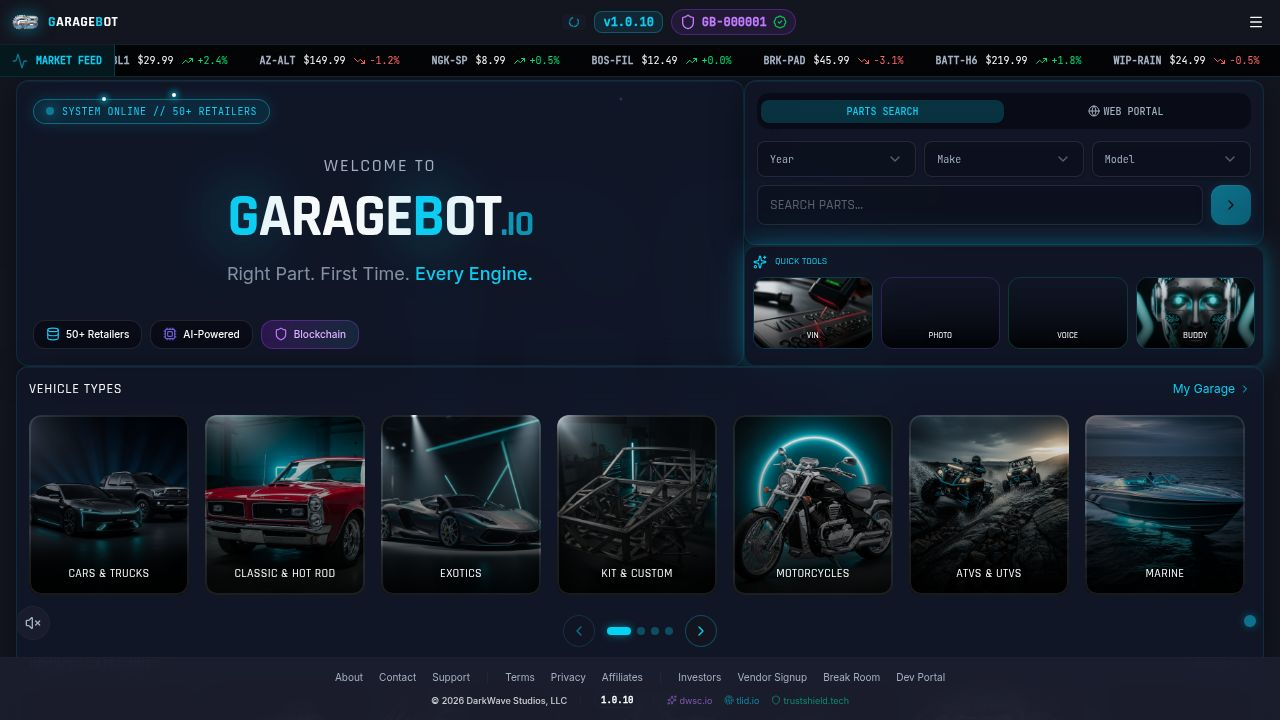
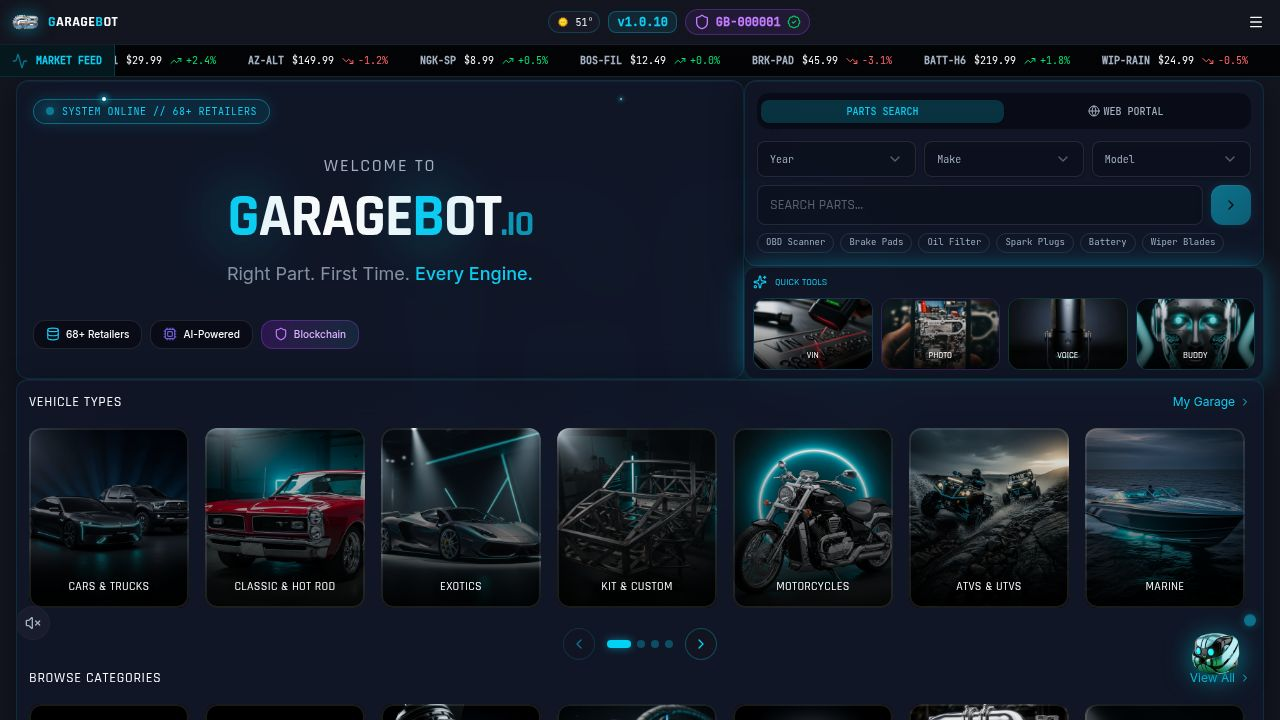
Add order confirmation, newsletter, and subscription emails
Adds new email sending functionality for order confirmations, newsletter subscriptions, and Pro subscriptions. Updates the number of supported retailers across the platform and introduces haptic feedback for user interactions.

Replit-Commit-Author: Agent
Replit-Commit-Session-Id: 1e54a76f-124b-4283-becb-c4350839668b
Replit-Commit-Checkpoint-Type: full_checkpoint
Replit-Commit-Event-Id: 29b42831-a27a-4e7e-9ab5-338efb24f10e
Replit-Commit-Screenshot-Url: https://storage.googleapis.com/screenshot-production-us-central1/61f82902-728d-4d48-9085-7700c909b4d3/1e54a76f-124b-4283-becb-c4350839668b/WXyVTWz

diff --git a/server/services/emailService.ts b/server/services/emailService.ts
@@ -103,7 +103,7 @@ export async function sendWelcomeEmail(toEmail: string, username: string) {
     <div style="background: rgba(255,255,255,0.03); border-radius: 8px; padding: 20px; margin-bottom: 24px;">
       <p style="color: #a1a1aa; font-size: 13px; margin: 0 0 12px 0;">With your GarageBot account, you can:</p>
       <ul style="color: #d4d4d8; font-size: 13px; margin: 0; padding-left: 20px; line-height: 1.8;">
-        <li>Search 40+ auto parts retailers at once</li>
+        <li>Search 68+ auto parts retailers at once</li>
         <li>Manage your vehicle fleet with VIN decoding</li>
         <li>Get AI-powered part recommendations</li>
         <li>Access DIY repair guides</li>
@@ -307,6 +307,233 @@ export async function sendPasswordResetEmail(toEmail: string, resetToken: string
     return { success: true, id: result.data?.id };
   } catch (error) {
     console.error('[Email] Failed to send password reset email:', error);
+    return { success: false, error };
+  }
+}
+
+export interface OrderDetails {
+  orderNumber: string;
+  customerName: string;
+  customerEmail: string;
+  items: { name: string; quantity: number; price: number }[];
+  subtotal: number;
+  tax: number;
+  total: number;
+  subscriptionType?: string;
+}
+
+export async function sendOrderConfirmationEmail(order: OrderDetails) {
+  try {
+    const { client, fromEmail } = await getResendClient();
+
+    const itemRows = order.items.map(item => `
+      <tr>
+        <td style="padding: 12px 0; border-bottom: 1px solid rgba(255,255,255,0.1); color: #d4d4d8; font-size: 14px;">${item.name}</td>
+        <td style="padding: 12px 0; border-bottom: 1px solid rgba(255,255,255,0.1); color: #a1a1aa; font-size: 14px; text-align: center;">${item.quantity}</td>
+        <td style="padding: 12px 0; border-bottom: 1px solid rgba(255,255,255,0.1); color: #22c55e; font-size: 14px; text-align: right; font-family: 'JetBrains Mono', monospace;">$${item.price.toFixed(2)}</td>
+      </tr>
+    `).join('');
+
+    const result = await client.emails.send({
+      from: fromEmail || 'GarageBot <noreply@garagebot.io>',
+      to: order.customerEmail,
+      subject: `Order Confirmed - #${order.orderNumber} | GarageBot`,
+      html: `
+<!DOCTYPE html>
+<html>
+<head><meta charset="utf-8"><meta name="viewport" content="width=device-width, initial-scale=1.0"></head>
+<body style="margin: 0; padding: 0; background-color: #0a0a0f; font-family: 'Segoe UI', Tahoma, Geneva, Verdana, sans-serif;">
+  <div style="max-width: 600px; margin: 0 auto; padding: 40px 20px;">
+    <div style="text-align: center; margin-bottom: 32px;">
+      <div style="display: inline-block; background: linear-gradient(135deg, rgba(6,182,212,0.2), rgba(59,130,246,0.2)); border: 1px solid rgba(6,182,212,0.4); border-radius: 12px; padding: 16px 24px; margin-bottom: 16px;">
+        <span style="font-size: 28px; font-weight: bold; color: #06b6d4; text-transform: uppercase; letter-spacing: 2px;">GarageBot</span>
+      </div>
+      <h1 style="color: #ffffff; font-size: 24px; margin: 0;">Order Confirmed!</h1>
+      <p style="color: #22c55e; font-size: 14px; margin: 8px 0 0 0;">&#10003; Payment received successfully</p>
+    </div>
+
+    <div style="background: linear-gradient(135deg, rgba(34,197,94,0.1), rgba(6,182,212,0.1)); border: 1px solid rgba(34,197,94,0.3); border-radius: 12px; padding: 24px; margin-bottom: 24px;">
+      <div style="display: flex; justify-content: space-between; margin-bottom: 16px;">
+        <div>
+          <span style="color: #71717a; font-size: 12px; text-transform: uppercase; letter-spacing: 1px;">Order Number</span>
+          <p style="color: #06b6d4; font-size: 18px; margin: 4px 0 0 0; font-weight: bold; font-family: monospace;">#${order.orderNumber}</p>
+        </div>
+        <div style="text-align: right;">
+          <span style="color: #71717a; font-size: 12px; text-transform: uppercase; letter-spacing: 1px;">Date</span>
+          <p style="color: #d4d4d8; font-size: 14px; margin: 4px 0 0 0;">${new Date().toLocaleDateString('en-US', { year: 'numeric', month: 'long', day: 'numeric' })}</p>
+        </div>
+      </div>
+
+      <table style="width: 100%; border-collapse: collapse;">
+        <thead>
+          <tr>
+            <th style="text-align: left; padding: 8px 0; border-bottom: 2px solid rgba(6,182,212,0.3); color: #06b6d4; font-size: 11px; text-transform: uppercase; letter-spacing: 1px;">Item</th>
+            <th style="text-align: center; padding: 8px 0; border-bottom: 2px solid rgba(6,182,212,0.3); color: #06b6d4; font-size: 11px; text-transform: uppercase; letter-spacing: 1px;">Qty</th>
+            <th style="text-align: right; padding: 8px 0; border-bottom: 2px solid rgba(6,182,212,0.3); color: #06b6d4; font-size: 11px; text-transform: uppercase; letter-spacing: 1px;">Price</th>
+          </tr>
+        </thead>
+        <tbody>${itemRows}</tbody>
+      </table>
+
+      <div style="margin-top: 16px; padding-top: 16px; border-top: 2px solid rgba(6,182,212,0.3);">
+        <div style="display: flex; justify-content: space-between; margin-bottom: 8px;">
+          <span style="color: #a1a1aa; font-size: 14px;">Subtotal</span>
+          <span style="color: #d4d4d8; font-size: 14px; font-family: monospace;">$${order.subtotal.toFixed(2)}</span>
+        </div>
+        <div style="display: flex; justify-content: space-between; margin-bottom: 12px;">
+          <span style="color: #a1a1aa; font-size: 14px;">Tax</span>
+          <span style="color: #d4d4d8; font-size: 14px; font-family: monospace;">$${order.tax.toFixed(2)}</span>
+        </div>
+        <div style="display: flex; justify-content: space-between; padding-top: 12px; border-top: 1px solid rgba(255,255,255,0.1);">
+          <span style="color: #ffffff; font-size: 18px; font-weight: bold;">Total</span>
+          <span style="color: #22c55e; font-size: 18px; font-weight: bold; font-family: monospace;">$${order.total.toFixed(2)}</span>
+        </div>
+      </div>
+    </div>
+
+    <div style="text-align: center; margin-bottom: 24px;">
+      <a href="https://garagebot.io/dashboard" style="display: inline-block; background: linear-gradient(135deg, #06b6d4, #3b82f6); color: #000000; padding: 14px 32px; border-radius: 8px; text-decoration: none; font-weight: bold; font-size: 14px; text-transform: uppercase; letter-spacing: 1px;">View Your Order</a>
+    </div>
+
+    <div style="background: rgba(255,255,255,0.03); border-radius: 8px; padding: 16px; margin-bottom: 24px;">
+      <p style="color: #a1a1aa; font-size: 12px; margin: 0; text-align: center;">
+        Need help? Reply to this email or visit our <a href="https://garagebot.io/support" style="color: #06b6d4; text-decoration: none;">Support Center</a>
+      </p>
+    </div>
+
+    <div style="text-align: center; padding-top: 24px; border-top: 1px solid rgba(255,255,255,0.1);">
+      <p style="color: #71717a; font-size: 11px; margin: 0;">
+        Right Part. First Time. Every Engine.<br>
+        &copy; ${new Date().getFullYear()} GarageBot - Part of the DarkWave Ecosystem
+      </p>
+    </div>
+  </div>
+</body>
+</html>
+      `
+    });
+
+    console.log('[Email] Order confirmation sent to:', order.customerEmail, result);
+    return { success: true, id: result.data?.id };
+  } catch (error) {
+    console.error('[Email] Failed to send order confirmation:', error);
+    return { success: false, error };
+  }
+}
+
+export async function sendNewsletterConfirmationEmail(toEmail: string) {
+  try {
+    const { client, fromEmail } = await getResendClient();
+
+    const result = await client.emails.send({
+      from: fromEmail || 'GarageBot <noreply@garagebot.io>',
+      to: toEmail,
+      subject: 'Welcome to the GarageBot Newsletter!',
+      html: `
+<!DOCTYPE html>
+<html>
+<head><meta charset="utf-8"><meta name="viewport" content="width=device-width, initial-scale=1.0"></head>
+<body style="margin: 0; padding: 0; background-color: #0a0a0f; font-family: 'Segoe UI', Tahoma, Geneva, Verdana, sans-serif;">
+  <div style="max-width: 600px; margin: 0 auto; padding: 40px 20px;">
+    <div style="text-align: center; margin-bottom: 32px;">
+      <div style="display: inline-block; background: linear-gradient(135deg, rgba(6,182,212,0.2), rgba(59,130,246,0.2)); border: 1px solid rgba(6,182,212,0.4); border-radius: 12px; padding: 16px 24px; margin-bottom: 16px;">
+        <span style="font-size: 28px; font-weight: bold; color: #06b6d4; text-transform: uppercase; letter-spacing: 2px;">GarageBot</span>
+      </div>
+      <h1 style="color: #ffffff; font-size: 24px; margin: 0;">You're In!</h1>
+    </div>
+
+    <div style="background: linear-gradient(135deg, rgba(6,182,212,0.1), rgba(59,130,246,0.1)); border: 1px solid rgba(6,182,212,0.3); border-radius: 12px; padding: 24px; margin-bottom: 24px;">
+      <p style="color: #d4d4d8; font-size: 14px; line-height: 1.6; margin: 0 0 16px 0;">
+        Thanks for subscribing to the GarageBot newsletter! Here's what you'll get:
+      </p>
+      <ul style="color: #a1a1aa; font-size: 13px; margin: 0; padding-left: 20px; line-height: 2;">
+        <li style="color: #d4d4d8;">Exclusive deals from 68+ auto parts retailers</li>
+        <li style="color: #d4d4d8;">DIY repair tips and seasonal maintenance reminders</li>
+        <li style="color: #d4d4d8;">New feature announcements and early access</li>
+        <li style="color: #d4d4d8;">Industry news and price drop alerts</li>
+      </ul>
+    </div>
+
+    <div style="text-align: center; margin-bottom: 24px;">
+      <a href="https://garagebot.io" style="display: inline-block; background: linear-gradient(135deg, #06b6d4, #3b82f6); color: #000000; padding: 14px 32px; border-radius: 8px; text-decoration: none; font-weight: bold; font-size: 14px; text-transform: uppercase; letter-spacing: 1px;">Start Searching Parts</a>
+    </div>
+
+    <div style="text-align: center; padding-top: 24px; border-top: 1px solid rgba(255,255,255,0.1);">
+      <p style="color: #71717a; font-size: 11px; margin: 0;">
+        Right Part. First Time. Every Engine.<br>
+        &copy; ${new Date().getFullYear()} GarageBot - Part of the DarkWave Ecosystem
+      </p>
+    </div>
+  </div>
+</body>
+</html>
+      `
+    });
+
+    console.log('[Email] Newsletter confirmation sent to:', toEmail, result);
+    return { success: true, id: result.data?.id };
+  } catch (error) {
+    console.error('[Email] Failed to send newsletter confirmation:', error);
+    return { success: false, error };
+  }
+}
+
+export async function sendProSubscriptionEmail(toEmail: string, username: string, plan: string) {
+  try {
+    const { client, fromEmail } = await getResendClient();
+
+    const result = await client.emails.send({
+      from: fromEmail || 'GarageBot <noreply@garagebot.io>',
+      to: toEmail,
+      subject: `Pro ${plan} Activated - Welcome to the Founders Circle! | GarageBot`,
+      html: `
+<!DOCTYPE html>
+<html>
+<head><meta charset="utf-8"><meta name="viewport" content="width=device-width, initial-scale=1.0"></head>
+<body style="margin: 0; padding: 0; background-color: #0a0a0f; font-family: 'Segoe UI', Tahoma, Geneva, Verdana, sans-serif;">
+  <div style="max-width: 600px; margin: 0 auto; padding: 40px 20px;">
+    <div style="text-align: center; margin-bottom: 32px;">
+      <div style="display: inline-block; background: linear-gradient(135deg, rgba(168,85,247,0.3), rgba(6,182,212,0.2)); border: 1px solid rgba(168,85,247,0.5); border-radius: 12px; padding: 16px 24px; margin-bottom: 16px;">
+        <span style="font-size: 28px; font-weight: bold; color: #a855f7; text-transform: uppercase; letter-spacing: 2px;">GarageBot Pro</span>
+      </div>
+      <h1 style="color: #ffffff; font-size: 24px; margin: 0;">Welcome to the Founders Circle, ${username}!</h1>
+      <p style="color: #a855f7; font-size: 14px; margin: 8px 0 0 0;">&#9733; ${plan} Plan Activated</p>
+    </div>
+
+    <div style="background: linear-gradient(135deg, rgba(168,85,247,0.1), rgba(6,182,212,0.1)); border: 1px solid rgba(168,85,247,0.3); border-radius: 12px; padding: 24px; margin-bottom: 24px;">
+      <p style="color: #d4d4d8; font-size: 14px; line-height: 1.6; margin: 0 0 16px 0;">
+        You now have access to all Pro features:
+      </p>
+      <ul style="color: #d4d4d8; font-size: 13px; margin: 0; padding-left: 20px; line-height: 2;">
+        <li>Ad-free experience across the platform</li>
+        <li>Priority AI-powered part recommendations</li>
+        <li>Advanced price alerts and tracking</li>
+        <li>Exclusive Genesis Hallmark NFTs</li>
+        <li>Early access to new features</li>
+        <li>Priority customer support</li>
+      </ul>
+    </div>
+
+    <div style="text-align: center; margin-bottom: 24px;">
+      <a href="https://garagebot.io/dashboard" style="display: inline-block; background: linear-gradient(135deg, #a855f7, #6366f1); color: #ffffff; padding: 14px 32px; border-radius: 8px; text-decoration: none; font-weight: bold; font-size: 14px; text-transform: uppercase; letter-spacing: 1px;">Go to Dashboard</a>
+    </div>
+
+    <div style="text-align: center; padding-top: 24px; border-top: 1px solid rgba(255,255,255,0.1);">
+      <p style="color: #71717a; font-size: 11px; margin: 0;">
+        Right Part. First Time. Every Engine.<br>
+        &copy; ${new Date().getFullYear()} GarageBot - Part of the DarkWave Ecosystem
+      </p>
+    </div>
+  </div>
+</body>
+</html>
+      `
+    });
+
+    console.log('[Email] Pro subscription email sent to:', toEmail, result);
+    return { success: true, id: result.data?.id };
+  } catch (error) {
+    console.error('[Email] Failed to send Pro subscription email:', error);
     return { success: false, error };
   }
 }

diff --git a/server/routes.ts b/server/routes.ts
@@ -2113,17 +2113,36 @@ ${pages.map(p => `  <url>
       
       const baseUrl = `https://${process.env.REPLIT_DOMAINS?.split(',')[0]}`;
       
+      const customerEmail = req.user?.claims?.email || '';
+
       const session = await stripe.checkout.sessions.create({
         payment_method_types: ['card'],
         line_items: lineItems,
         mode: 'payment',
         success_url: `${baseUrl}/checkout/success?session_id={CHECKOUT_SESSION_ID}`,
         cancel_url: `${baseUrl}/checkout/cancel`,
+        customer_email: customerEmail || undefined,
         metadata: {
           cartId: cart.id,
           userId: userId || 'guest',
         },
       });
+
+      if (customerEmail) {
+        try {
+          const { sendOrderConfirmationEmail } = await import('./services/emailService');
+          const subtotal = items.reduce((sum: number, item: any) => sum + parseFloat(item.unitPrice) * item.quantity, 0);
+          sendOrderConfirmationEmail({
+            orderNumber: session.id.slice(-8).toUpperCase(),
+            customerName: req.user?.claims?.name || 'Customer',
+            customerEmail,
+            items: items.map((item: any) => ({ name: item.productName, quantity: item.quantity, price: parseFloat(item.unitPrice) })),
+            subtotal,
+            tax: 0,
+            total: subtotal,
+          }).catch(e => console.error('[Checkout] Order email failed:', e));
+        } catch {}
+      }
       
       res.json({ url: session.url, sessionId: session.id });
     } catch (error: any) {
@@ -3869,6 +3888,14 @@ ${pages.map(p => `  <url>
         }
       });
       
+      if (user.email) {
+        try {
+          const { sendProSubscriptionEmail } = await import('./services/emailService');
+          const planName = `${subscriptionTier.charAt(0).toUpperCase() + subscriptionTier.slice(1)} ${billingPeriod === 'annual' ? 'Annual' : 'Monthly'}`;
+          sendProSubscriptionEmail(user.email, user.username, planName).catch(e => console.error('[Subscription] Pro email failed:', e));
+        } catch {}
+      }
+
       res.json({ checkoutUrl: session.url });
     } catch (error) {
       console.error("Subscription checkout error:", error);
@@ -10612,6 +10639,10 @@ Make it helpful for DIY mechanics and vehicle owners looking for parts and maint
         return res.json({ message: "Welcome back! You've been re-subscribed." });
       }
       await storage.subscribeNewsletter({ email: email.toLowerCase(), firstName: firstName || null, source: source || "footer" });
+      try {
+        const { sendNewsletterConfirmationEmail } = await import('./services/emailService');
+        sendNewsletterConfirmationEmail(email.toLowerCase()).catch(e => console.error('[Newsletter] Confirmation email failed:', e));
+      } catch {}
       res.json({ message: "You're in! Watch for deals, tips & DIY guides in your inbox." });
     } catch (error) {
       console.error("Newsletter subscribe error:", error);

diff --git a/client/src/hooks/useSoundEffects.ts b/client/src/hooks/useSoundEffects.ts
@@ -102,6 +102,22 @@ function playSpinSound(ctx: AudioContext) {
   });
 }
 
+const HAPTIC_PATTERNS: Record<SoundType, number[]> = {
+  search: [15],
+  addToCart: [10, 30, 10],
+  success: [10, 20, 30],
+  click: [8],
+  spin: [5, 10, 5, 10, 5, 10, 15, 25],
+};
+
+function triggerHaptic(type: SoundType) {
+  try {
+    if ('vibrate' in navigator) {
+      navigator.vibrate(HAPTIC_PATTERNS[type] || [10]);
+    }
+  } catch {}
+}
+
 const SOUND_PLAYERS: Record<SoundType, (ctx: AudioContext) => void> = {
   search: playSearchSound,
   addToCart: playAddToCartSound,
@@ -140,6 +156,7 @@ export default function useSoundEffects(): SoundEffectsReturn {
 
   const playSound = useCallback(
     (type: SoundType) => {
+      triggerHaptic(type);
       if (!soundEnabled) return;
       const ctx = getContext();
       if (!ctx) return;

diff --git a/server/services/buddy-chat-bot.ts b/server/services/buddy-chat-bot.ts
@@ -13,7 +13,7 @@ const SUPPORT_CHANNEL_NAME = "garagebot-support";
 
 const BUDDY_SYSTEM_PROMPT = `You are Buddy, the friendly and knowledgeable AI support assistant for GarageBot - a parts aggregator platform for ALL motorized vehicles and equipment. You help users with:
 
-1. Finding parts across 50+ retailers
+1. Finding parts across 68+ retailers
 2. Vehicle management and VIN decoding  
 3. DIY repair guides and maintenance tips
 4. Account and subscription questions (Free, Pro Founders Circle)
